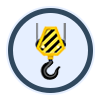
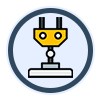
Solucionado el bug de la grúa y los bloques
-> Se ha sustituido la grúa por un imán
-> Ahora cuando la grúa se pone encima de un bloque, éste se ve atraído por la grúa.
-> Ahora la plataforma de generación de bloques se genera siempre 50 píxeles debajo del imán para que haya sufiente espacio para generar los bloques.

Changed region(s): [[0.27, 0.15, 0.75, 0.81]]

diff --git a/Juego_apilar_bloques/src/GameScene.js b/Juego_apilar_bloques/src/GameScene.js
@@ -3,13 +3,14 @@
 // ----------------------
 
 var AGARRAR_BLOQUE = 0;
-var AGARRANDO_BLOQUE = 1;
-var AGARRANDO_BLOQUE_VOLVER = 2;
+var AGARRANDO_BLOQUE_MOVER_GRUA_BLOQUE = 1;
+var AGARRANDO_BLOQUE_SUBIR_BLOQUE = 2;
+var AGARRANDO_BLOQUE_MOVER_GRUA_CENTRO = 3;
 
-var SOLTAR_BLOQUE = 3;
-var SOLTANDO_BLOQUE = 4;
+var SOLTAR_BLOQUE = 4;
+var SOLTANDO_BLOQUE = 5;
 
-var TODOS_BLOQUES_COLOCADOS = 5;
+var TODOS_BLOQUES_COLOCADOS = 6;
 
 var estadoJuego = AGARRAR_BLOQUE;
 
@@ -102,6 +103,7 @@ var GameLayer = cc.Layer.extend({
     formasEliminar: [],
 
     bloqueGenerado: null,
+    bloqueGenerado_velSubida: null,
 
     grua_moverIzquierda: null,
     grua_moverDerecha: null,
@@ -182,12 +184,13 @@ var GameLayer = cc.Layer.extend({
         numeroBloquesQuedan = bloquesGenerar_actual;
 
         this.spriteGrua_velX = 3;
+        this.bloqueGenerado_velSubida = 2;
 
         this.grua_moverIzquierda = false;
         this.grua_moverDerecha = false;
 
-        this.inicializarPlataformas();
         this.inicializarGrua();
+        this.inicializarPlataformas();
         this.generarBloqueAleatorio();
 
         estadoJuego = AGARRAR_BLOQUE;
@@ -219,8 +222,7 @@ var GameLayer = cc.Layer.extend({
     inicializarGrua: function() {
         this.spriteGrua = cc.Sprite.create(res.grua_png);
 
-        this.spriteGrua.setScale(0.2);
-        this.spriteGrua.setPosition(cc.p(cc.winSize.width * 0.5, cc.winSize.height * 0.9));
+        this.spriteGrua.setPosition(cc.p(cc.winSize.width * 0.5, cc.winSize.height - this.spriteGrua.height / 2));
 
         this.addChild(this.spriteGrua);
     },
@@ -251,7 +253,8 @@ var GameLayer = cc.Layer.extend({
         var spritePlataformaGen = new cc.PhysicsSprite(res.barra2_png);
 
         var body2 = new cp.StaticBody();
-        body2.p = cc.p(cc.winSize.width * 0.13, cc.winSize.height * 0.75);
+
+        body2.p = cc.p(cc.winSize.width * 0.13, this.spriteGrua.y - this.spriteGrua.height / 2 - 60);
         spritePlataformaGen.setBody(body2);
 
         var shape2 = new cp.BoxShape(body2, spritePlataformaGen.width, spritePlataformaGen.height);
@@ -318,6 +321,10 @@ var GameLayer = cc.Layer.extend({
         this.bloqueGenerado.setPosition(cc.p(this.bloqueGenerado.x + desplX, this.bloqueGenerado.y));
     },
 
+    subirBloqueGenerado: function(desplY) {
+        this.bloqueGenerado.setPosition(cc.p(this.bloqueGenerado.x, this.bloqueGenerado.y + desplY));
+    },
+
 
     // ~~~~~~~~~~~~~~~~~~~~~~~~~~~~~~~~~~~~~~~~~
     // Actualizar el juego
@@ -327,7 +334,7 @@ var GameLayer = cc.Layer.extend({
         this.space.step(dt);
 
         // ------------------------------------------
-        // Comrpobar si quedan bloques que colocar
+        // Comprobar si quedan bloques que colocar
         // ------------------------------------------
 
         if (estadoJuego == TODOS_BLOQUES_COLOCADOS) {
@@ -397,14 +404,33 @@ var GameLayer = cc.Layer.extend({
         // Colocar la grúa encima del bloque
         // --------------------------------------------------
 
-        else if (estadoJuego == AGARRANDO_BLOQUE) {
+        else if (estadoJuego == AGARRANDO_BLOQUE_MOVER_GRUA_BLOQUE) {
             if (this.spriteGrua.x - this.spriteGrua_velX > this.bloqueGenerado.x) {
                 this.moverGrua(-this.spriteGrua_velX);
             }
 
             else {
                 this.moverGrua(this.bloqueGenerado.x - this.spriteGrua.x);
-                estadoJuego = AGARRANDO_BLOQUE_VOLVER;
+                estadoJuego = AGARRANDO_BLOQUE_SUBIR_BLOQUE;
+            }
+        }
+
+
+        // -----------------------------------
+        // Subir el bloque hasta la grúa
+        // -----------------------------------
+
+        else if(estadoJuego == AGARRANDO_BLOQUE_SUBIR_BLOQUE) {
+            var posFinalBloque = this.spriteGrua.y - this.spriteGrua.height / 2 - this.bloqueGenerado.height / 2;
+
+            if (this.bloqueGenerado.y + this.bloqueGenerado_velSubida < posFinalBloque) {
+                this.subirBloqueGenerado(this.bloqueGenerado_velSubida);
+            }
+
+            else {
+                this.subirBloqueGenerado(posFinalBloque - this.bloqueGenerado.y);
+
+                estadoJuego = AGARRANDO_BLOQUE_MOVER_GRUA_CENTRO;
             }
         }
 
@@ -413,7 +439,7 @@ var GameLayer = cc.Layer.extend({
         // Llevar la grua al centro con el bloque generado
         // --------------------------------------------------
 
-        if (estadoJuego == AGARRANDO_BLOQUE_VOLVER) {
+        else if (estadoJuego == AGARRANDO_BLOQUE_MOVER_GRUA_CENTRO) {
             if (this.spriteGrua.x + this.spriteGrua_velX < cc.winSize.width * 0.5) {
                 this.moverGrua(this.spriteGrua_velX);
                 this.moverBloqueGenerado(this.spriteGrua_velX);

diff --git a/Juego_apilar_bloques/src/ControlesLayer.js b/Juego_apilar_bloques/src/ControlesLayer.js
@@ -87,7 +87,7 @@ var ControlesLayer = cc.Layer.extend({
 
                 if (estadoJuego == AGARRAR_BLOQUE) {
                     if (keyCode == 32) { // Espacio
-                        estadoJuego = AGARRANDO_BLOQUE;
+                        estadoJuego = AGARRANDO_BLOQUE_MOVER_GRUA_BLOQUE;
                     }
                 }
 
@@ -145,7 +145,7 @@ var ControlesLayer = cc.Layer.extend({
 
             if (estadoJuego == AGARRAR_BLOQUE) {
                 if (cc.rectContainsPoint( areaBotonAgarrarSoltar, cc.p(event.getLocationX(), event.getLocationY()) )) {
-                    estadoJuego = AGARRANDO_BLOQUE;
+                    estadoJuego = AGARRANDO_BLOQUE_MOVER_GRUA_BLOQUE;
                 }
             }
 
@@ -264,11 +264,14 @@ var ControlesLayer = cc.Layer.extend({
 
         if (estadoJuego == SOLTAR_BLOQUE) {
             instancia = this.getParent().getChildByTag(idCapaJuego);
+
             var tiempoActual = new Date().getTime();
             var tiempo = instancia.tiempoLimiteColocacion - (tiempoActual - instancia.tiempoInicialBloque);
-            if(tiempo>0){
+
+            if (tiempo > 0) {
                 this.tiempoRestante=tiempo;
             }
+
             this.indicadorTiempo.setString("Tiempo restante: " + Math.round(this.tiempoRestante/1000));
         }
     }

diff --git a/Juego_apilar_bloques/src/resource.js b/Juego_apilar_bloques/src/resource.js
@@ -18,7 +18,6 @@ var res = {
     joypad_left_png : "res/pad_left.png",
     joypad_right_png : "res/pad_right.png",
     joypad_drag_drop_png : "res/pad_drag_and_drop.png",
-    joypad_png : "res/joypad.png",
 
     figura_cuadrado_png : "res/figura_cuadrado.png",
     figura_triangulo_png : "res/figura_triangulo.png",
